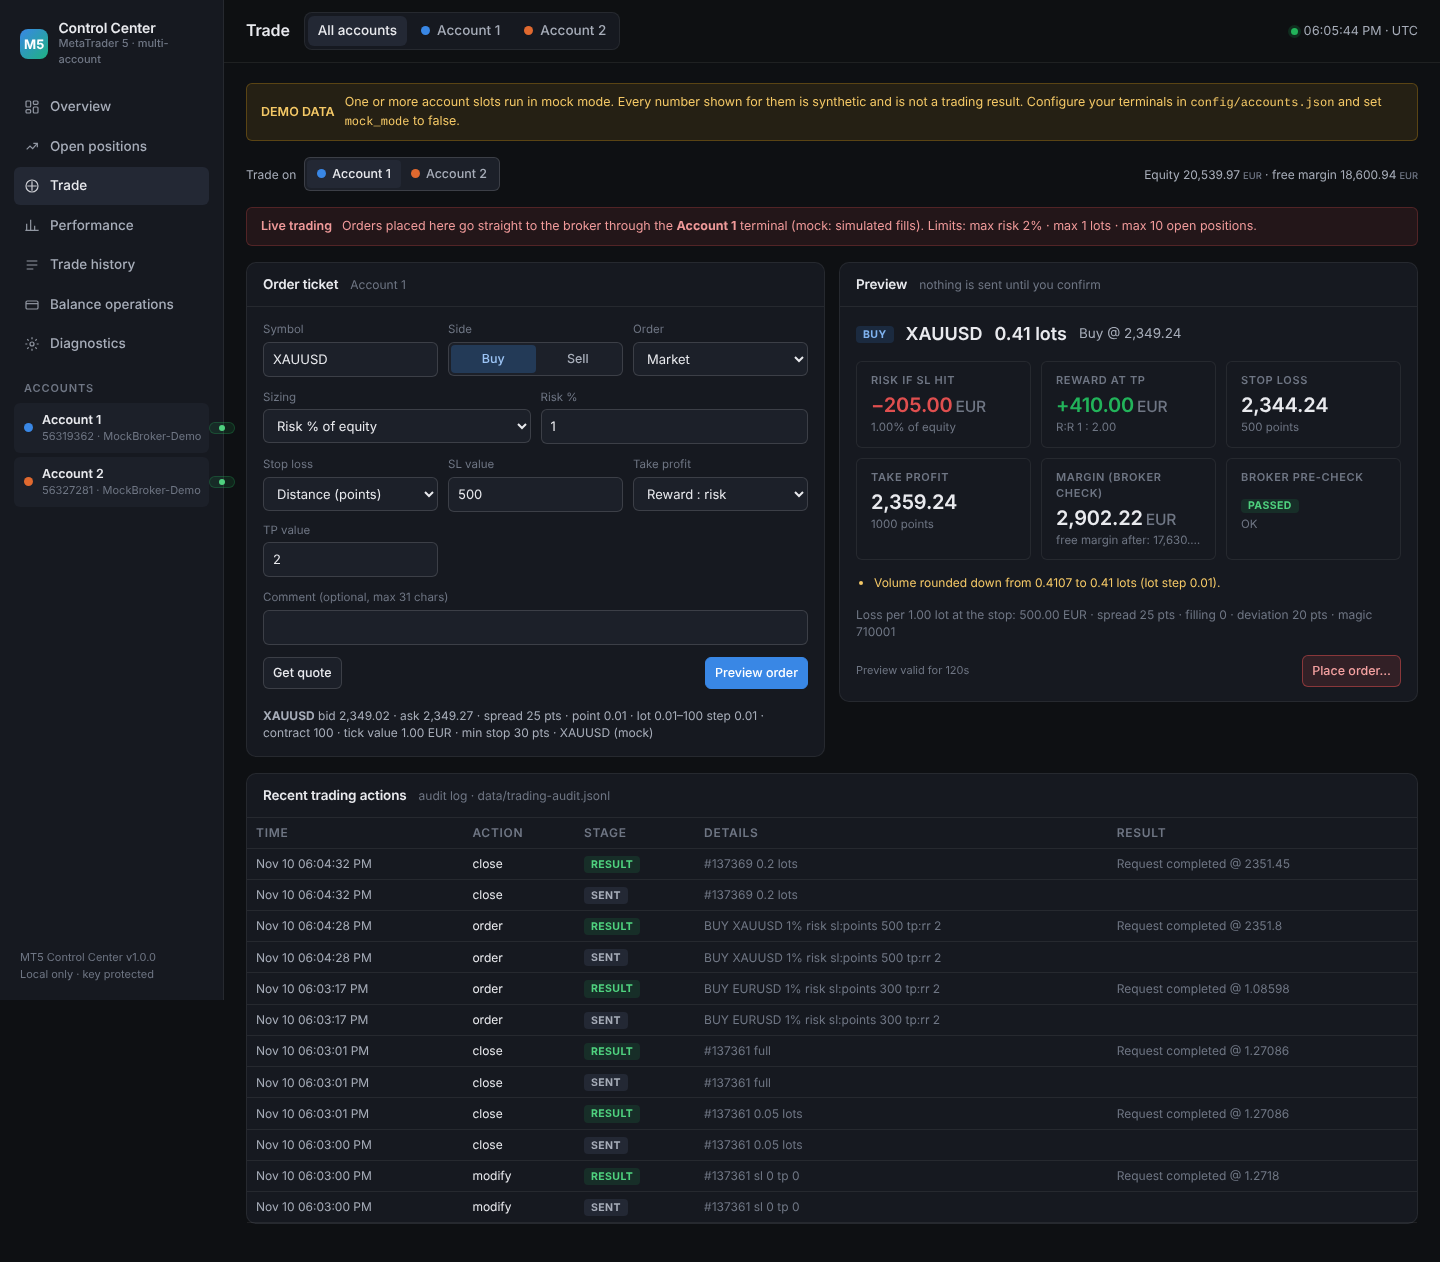
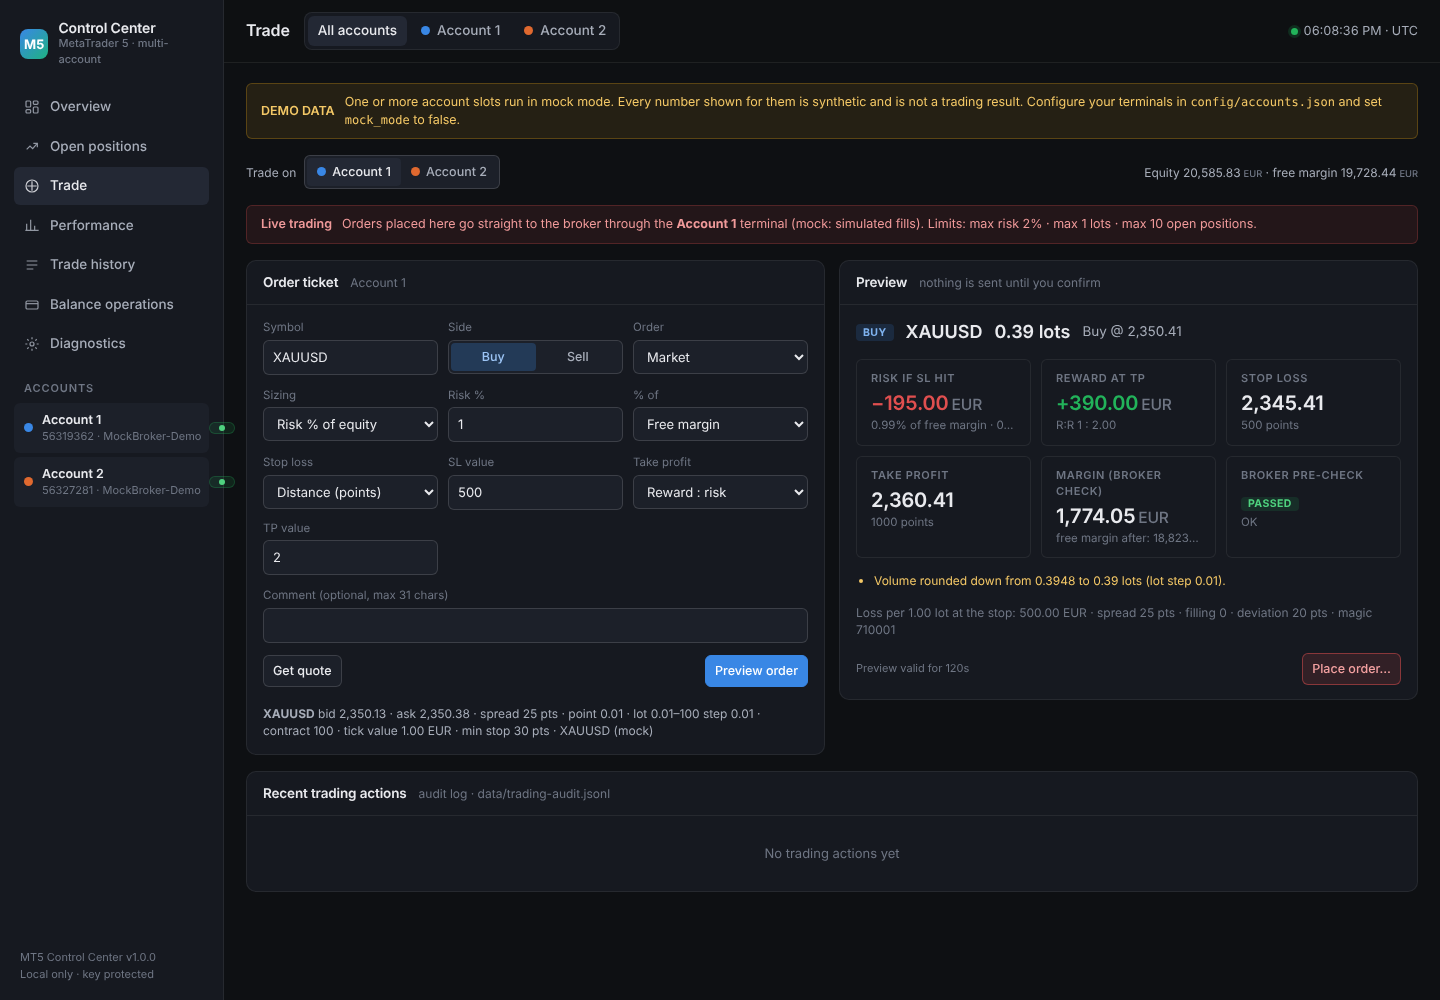
Allow risk sizing from free margin, balance or equity
Add a risk_basis choice to the order ticket (free margin is the default on
the ticket). The 1% is taken from the chosen figure; max_risk_percent is
enforced against that basis and against equity, so a free margin inflated
by credit cannot push the loss past the cap. Preview and confirmation show
both percentages.

Claude-Session: https://claude.ai/code/session_01GwyL4s49sA4J7gqj3VNecf

diff --git a/mt5-control-center/mt5cc/static/app.js b/mt5-control-center/mt5cc/static/app.js
@@ -558,7 +558,7 @@
   }
 
   /* ---------------- TRADE TICKET ---------------- */
-  const TF = { account: null, symbol: "", side: "BUY", order_kind: "market", price: "", sizing: "risk", risk_percent: "1", lots: "0.10", sl_mode: "points", sl: "", tp_mode: "rr", tp: "2", comment: "" };
+  const TF = { account: null, symbol: "", side: "BUY", order_kind: "market", price: "", sizing: "risk", risk_percent: "1", risk_basis: "free_margin", lots: "0.10", sl_mode: "points", sl: "", tp_mode: "rr", tp: "2", comment: "" };
   let lastPreview = null;
 
   async function viewTrade(content, token) {
@@ -587,6 +587,7 @@
             <div class="form-row">
               <label>Sizing<select id="t-sizing"><option value="risk" ${TF.sizing === "risk" ? "selected" : ""}>Risk % of equity</option><option value="lots" ${TF.sizing === "lots" ? "selected" : ""}>Fixed lots</option></select></label>
               <label class="${TF.sizing === "risk" ? "" : "hidden"}" id="t-risk-wrap">Risk %<input id="t-risk" type="number" step="0.05" min="0.05" max="${st.limits.max_risk_percent}" value="${esc(TF.risk_percent)}"></label>
+              <label class="${TF.sizing === "risk" ? "" : "hidden"}" id="t-basis-wrap">% of<select id="t-basis"><option value="free_margin" ${TF.risk_basis === "free_margin" ? "selected" : ""}>Free margin</option><option value="equity" ${TF.risk_basis === "equity" ? "selected" : ""}>Equity</option><option value="balance" ${TF.risk_basis === "balance" ? "selected" : ""}>Balance</option></select></label>
               <label class="${TF.sizing === "lots" ? "" : "hidden"}" id="t-lots-wrap">Lots<input id="t-lots" type="number" step="0.01" min="0.01" max="${st.limits.max_lots}" value="${esc(TF.lots)}"></label>
             </div>
             <div class="form-row">
@@ -605,13 +606,13 @@
     content.querySelectorAll("#trade-acct button").forEach(b => b.addEventListener("click", () => { TF.account = b.dataset.id; if (S.scope !== "all") { S.scope = "all"; renderShell(); } renderView(); }));
     const read = () => {
       TF.symbol = $("#t-symbol").value.trim().toUpperCase(); TF.order_kind = $("#t-kind").value; TF.price = $("#t-price").value;
-      TF.sizing = $("#t-sizing").value; TF.risk_percent = $("#t-risk").value; TF.lots = $("#t-lots").value;
+      TF.sizing = $("#t-sizing").value; TF.risk_percent = $("#t-risk").value; TF.risk_basis = $("#t-basis").value; TF.lots = $("#t-lots").value;
       TF.sl_mode = $("#t-slmode").value; TF.sl = $("#t-sl").value; TF.tp_mode = $("#t-tpmode").value; TF.tp = $("#t-tp").value; TF.comment = $("#t-comment").value;
       $("#t-price-wrap").classList.toggle("hidden", TF.order_kind === "market");
-      $("#t-risk-wrap").classList.toggle("hidden", TF.sizing !== "risk"); $("#t-lots-wrap").classList.toggle("hidden", TF.sizing !== "lots");
+      $("#t-risk-wrap").classList.toggle("hidden", TF.sizing !== "risk"); $("#t-basis-wrap").classList.toggle("hidden", TF.sizing !== "risk"); $("#t-lots-wrap").classList.toggle("hidden", TF.sizing !== "lots");
       $("#t-sl-wrap").classList.toggle("hidden", TF.sl_mode === "none"); $("#t-tp-wrap").classList.toggle("hidden", TF.tp_mode === "none");
     };
-    content.querySelectorAll("#t-symbol,#t-kind,#t-price,#t-sizing,#t-risk,#t-lots,#t-slmode,#t-sl,#t-tpmode,#t-tp,#t-comment").forEach(el => { el.addEventListener("input", read); el.addEventListener("change", read); });
+    content.querySelectorAll("#t-symbol,#t-kind,#t-price,#t-sizing,#t-risk,#t-basis,#t-lots,#t-slmode,#t-sl,#t-tpmode,#t-tp,#t-comment").forEach(el => { el.addEventListener("input", read); el.addEventListener("change", read); });
     content.querySelectorAll("#t-side button").forEach(b => b.addEventListener("click", () => { TF.side = b.dataset.v; content.querySelectorAll("#t-side button").forEach(x => x.className = x === b ? "active " + TF.side.toLowerCase() : ""); }));
     $("#t-quote").addEventListener("click", async () => {
       read(); const out = $("#t-quote-out"); out.textContent = "Fetching…";
@@ -621,13 +622,13 @@
     });
     $("#t-preview").addEventListener("click", async () => {
       read(); const out = $("#t-preview-out"); out.innerHTML = `<div class="loading-row"><div class="spinner"></div>Checking with the terminal…</div>`;
-      const body = { symbol: TF.symbol, side: TF.side, order_kind: TF.order_kind, price: TF.order_kind === "market" ? undefined : parseFloat(TF.price), sizing: TF.sizing, risk_percent: parseFloat(TF.risk_percent), lots: parseFloat(TF.lots), sl_mode: TF.sl_mode, sl: parseFloat(TF.sl), tp_mode: TF.tp_mode, tp: parseFloat(TF.tp), comment: TF.comment };
+      const body = { symbol: TF.symbol, side: TF.side, order_kind: TF.order_kind, price: TF.order_kind === "market" ? undefined : parseFloat(TF.price), sizing: TF.sizing, risk_percent: parseFloat(TF.risk_percent), risk_basis: TF.risk_basis, lots: parseFloat(TF.lots), sl_mode: TF.sl_mode, sl: parseFloat(TF.sl), tp_mode: TF.tp_mode, tp: parseFloat(TF.tp), comment: TF.comment };
       try {
         const pv = await post(`/api/accounts/${a.id}/orders/preview`, body); lastPreview = pv;
         const p = pv.plan, c = pv.check;
         out.innerHTML = `<div class="preview-head"><span class="tag ${p.direction.toLowerCase()}">${p.direction}</span><b class="big">${esc(p.symbol)}</b><span class="big">${fmt(p.volume, 2)} lots</span><span class="dim">${esc(p.order_type_name)} @ ${price(p.entry)}</span></div>
           <div class="tiles mt14">
-            <div class="tile"><div class="k">Risk if SL hit</div><div class="v neg">${p.risk_amount === null ? "uncapped" : "−" + fmt(p.risk_amount) + `<span class="cur">${esc(cur)}</span>`}</div><div class="s">${p.risk_percent === null ? "no stop loss" : fmt(p.risk_percent, 2) + "% of equity"}</div></div>
+            <div class="tile"><div class="k">Risk if SL hit</div><div class="v neg">${p.risk_amount === null ? "uncapped" : "−" + fmt(p.risk_amount) + `<span class="cur">${esc(cur)}</span>`}</div><div class="s">${p.risk_percent === null ? "no stop loss" : fmt(p.risk_percent, 2) + "% of " + ({ free_margin: "free margin", balance: "balance", equity: "equity" }[p.risk_basis] || p.risk_basis) + (p.risk_basis !== "equity" && p.risk_percent_of_equity !== null ? " · " + fmt(p.risk_percent_of_equity, 2) + "% of equity" : "")}</div></div>
             <div class="tile"><div class="k">Reward at TP</div><div class="v pos">${p.reward_amount === null ? "–" : "+" + fmt(p.reward_amount) + `<span class="cur">${esc(cur)}</span>`}</div><div class="s">${p.rr ? "R:R 1 : " + fmt(p.rr, 2) : "no take profit"}</div></div>
             <div class="tile"><div class="k">Stop loss</div><div class="v">${p.sl === null ? "none" : price(p.sl)}</div><div class="s">${p.sl === null ? "" : Math.round(Math.abs(p.entry - p.sl) / pv.symbol.point) + " points"}</div></div>
             <div class="tile"><div class="k">Take profit</div><div class="v">${p.tp === null ? "none" : price(p.tp)}</div><div class="s">${p.tp === null ? "" : Math.round(Math.abs(p.tp - p.entry) / pv.symbol.point) + " points"}</div></div>
@@ -639,7 +640,7 @@
           <div class="form-actions mt14"><span class="xs muted">Preview valid for ${pv.intent.expires_in}s</span><span class="flex1"></span><button class="btn danger" id="t-send" ${pv.check_ok ? "" : "disabled"}>Place order…</button></div>`;
         $("#t-send").addEventListener("click", () => {
           openModal({ title: `Send ${p.direction} ${fmt(p.volume, 2)} ${p.symbol} to ${a.label}?`, danger: true, confirmLabel: "Send order", requireText: p.direction,
-            body: `<dl class="kv"><dt>Account</dt><dd>${esc(a.label)}${a.mock ? " (mock)" : ""}</dd><dt>Order</dt><dd>${esc(p.order_type_name)} ${fmt(p.volume, 2)} lots ${esc(p.symbol)} @ ${price(p.entry)}</dd><dt>Stop loss</dt><dd>${p.sl === null ? "none" : price(p.sl)}</dd><dt>Take profit</dt><dd>${p.tp === null ? "none" : price(p.tp)}</dd><dt>Max loss at stop</dt><dd class="neg">${p.risk_amount === null ? "uncapped" : "−" + fmt(p.risk_amount) + " " + esc(cur) + " (" + fmt(p.risk_percent, 2) + "%)"}</dd></dl><p class="small dim">This sends a real order to the broker. Market orders fill immediately at the current price.</p>`,
+            body: `<dl class="kv"><dt>Account</dt><dd>${esc(a.label)}${a.mock ? " (mock)" : ""}</dd><dt>Order</dt><dd>${esc(p.order_type_name)} ${fmt(p.volume, 2)} lots ${esc(p.symbol)} @ ${price(p.entry)}</dd><dt>Stop loss</dt><dd>${p.sl === null ? "none" : price(p.sl)}</dd><dt>Take profit</dt><dd>${p.tp === null ? "none" : price(p.tp)}</dd><dt>Max loss at stop</dt><dd class="neg">${p.risk_amount === null ? "uncapped" : "−" + fmt(p.risk_amount) + " " + esc(cur) + " (" + fmt(p.risk_percent, 2) + "% of " + ({ free_margin: "free margin", balance: "balance", equity: "equity" }[p.risk_basis] || p.risk_basis) + ")"}</dd></dl><p class="small dim">This sends a real order to the broker. Market orders fill immediately at the current price.</p>`,
             onConfirm: async () => {
               const r = await post(`/api/accounts/${a.id}/orders`, { ...pv.request_echo, intent: pv.intent, expected: { symbol: p.symbol, order_type: p.order_type, volume: p.volume } });
               if (!r.ok) throw new Error(`${r.result_text}${r.result?.comment ? " · " + r.result.comment : ""}`);
@@ -652,7 +653,7 @@
   }
   function auditDetails(e) {
     const r = e.request || {};
-    if (e.action === "order") return `${r.side || ""} ${r.symbol || ""} ${r.sizing === "lots" ? r.lots + " lots" : (r.risk_percent || "") + "% risk"} sl:${r.sl_mode || "none"} ${r.sl || ""} tp:${r.tp_mode || "none"} ${r.tp || ""}`.replace(/\s+/g, " ").trim();
+    if (e.action === "order") return `${r.side || ""} ${r.symbol || ""} ${r.sizing === "lots" ? r.lots + " lots" : (r.risk_percent || "") + "% of " + (r.risk_basis || "equity").replace("_", " ")} sl:${r.sl_mode || "none"} ${r.sl || ""} tp:${r.tp_mode || "none"} ${r.tp || ""}`.replace(/\s+/g, " ").trim();
     if (e.action === "close") return `#${r.ticket} ${r.volume ? r.volume + " lots" : "full"}`;
     if (e.action === "modify") return `#${r.ticket} sl ${r.sl ?? "-"} tp ${r.tp ?? "-"}`;
     return "";

diff --git a/mt5-control-center/mt5cc/trading.py b/mt5-control-center/mt5cc/trading.py
@@ -80,6 +80,9 @@ class OrderPlan:
     risk_percent: float | None
     reward_amount: float | None
     sizing: str
+    risk_basis: str = "equity"
+    basis_amount: float | None = None
+    risk_percent_of_equity: float | None = None
     warnings: list[str] = field(default_factory=list)
     loss_per_lot: float | None = None
     requested_lots: float | None = None
@@ -94,7 +97,10 @@ class OrderPlan:
             "risk_percent": round(self.risk_percent, 3) if self.risk_percent is not None else None,
             "reward_amount": round(self.reward_amount, 2) if self.reward_amount is not None else None,
             "rr": round(self.reward_amount / self.risk_amount, 2) if self.reward_amount and self.risk_amount else None,
-            "sizing": self.sizing, "warnings": self.warnings,
+            "sizing": self.sizing, "risk_basis": self.risk_basis,
+            "basis_amount": round(self.basis_amount, 2) if self.basis_amount is not None else None,
+            "risk_percent_of_equity": round(self.risk_percent_of_equity, 3) if self.risk_percent_of_equity is not None else None,
+            "warnings": self.warnings,
             "loss_per_lot": round(self.loss_per_lot, 2) if self.loss_per_lot is not None else None,
             "requested_lots": self.requested_lots,
         }
@@ -105,7 +111,8 @@ def build_plan(req: dict[str, Any], info: dict[str, Any], tick: dict[str, Any], 
     """Turn a user request into a concrete, validated order plan.
 
     ``req`` keys: symbol, side ("BUY"/"SELL"), order_kind ("market"/"limit"/"stop"),
-    price (pending only), sizing ("risk"/"lots"), risk_percent, lots,
+    price (pending only), sizing ("risk"/"lots"), risk_percent,
+    risk_basis ("equity"/"balance"/"free_margin" - what the percentage is taken from), lots,
     sl_mode ("points"/"price"/"none"), sl, tp_mode ("points"/"price"/"rr"/"none"), tp.
     """
     symbol = str(req.get("symbol") or "").strip().upper()
@@ -179,6 +186,15 @@ def build_plan(req: dict[str, Any], info: dict[str, Any], tick: dict[str, Any], 
     # --- sizing
     sizing = str(req.get("sizing") or "risk").lower()
     equity = float(account.get("equity") or 0)
+    risk_basis = str(req.get("risk_basis") or "equity").lower()
+    basis_amount = {
+        "equity": equity,
+        "balance": float(account.get("balance") or 0),
+        "free_margin": float(account.get("margin_free") or 0),
+    }.get(risk_basis)
+    if basis_amount is None:
+        raise TradeRejected("risk_basis must be equity, balance or free_margin.")
+    basis_label = {"equity": "equity", "balance": "balance", "free_margin": "free margin"}[risk_basis]
     max_risk = float(limits.get("max_risk_percent") or 0)
     max_lots = float(limits.get("max_lots") or 0)
     lpl = loss_per_lot(abs(entry - sl), info) if sl is not None else None
@@ -192,9 +208,9 @@ def build_plan(req: dict[str, Any], info: dict[str, Any], tick: dict[str, Any], 
             raise TradeRejected("Risk percent must be positive.")
         if max_risk and risk_pct > max_risk + 1e-9:
             raise TradeRejected(f"Risk {risk_pct:g}% exceeds this account's max_risk_percent ({max_risk:g}%).")
-        if equity <= 0:
-            raise TradeRejected("Account equity is not positive; refusing to size a trade.")
-        risk_amount = equity * risk_pct / 100.0
+        if basis_amount <= 0:
+            raise TradeRejected(f"Account {basis_label} is not positive; refusing to size a trade.")
+        risk_amount = basis_amount * risk_pct / 100.0
         raw = risk_amount / lpl
         volume = round_volume(raw, info)
         if volume <= 0:
@@ -218,9 +234,12 @@ def build_plan(req: dict[str, Any], info: dict[str, Any], tick: dict[str, Any], 
         raise TradeRejected(f"Volume {volume:g} exceeds this account's max_lots ({max_lots:g}).")
 
     risk_amount = lpl * volume if lpl is not None else None
-    risk_percent = (risk_amount / equity * 100.0) if (risk_amount is not None and equity > 0) else None
+    risk_percent = (risk_amount / basis_amount * 100.0) if (risk_amount is not None and basis_amount > 0) else None
+    risk_percent_of_equity = (risk_amount / equity * 100.0) if (risk_amount is not None and equity > 0) else None
     if risk_percent is not None and max_risk and risk_percent > max_risk + 1e-6:
-        raise TradeRejected(f"Resulting risk {risk_percent:.2f}% exceeds max_risk_percent ({max_risk:g}%).")
+        raise TradeRejected(f"Resulting risk {risk_percent:.2f}% of {basis_label} exceeds max_risk_percent ({max_risk:g}%).")
+    if risk_basis != "equity" and risk_percent_of_equity is not None and max_risk and risk_percent_of_equity > max_risk + 1e-6:
+        raise TradeRejected(f"Resulting risk is {risk_percent_of_equity:.2f}% of equity, above max_risk_percent ({max_risk:g}%). The cap applies to equity as well as to the chosen basis.")
     if sl is None:
         warnings.append("No stop-loss: the risk of this trade is not capped.")
 
@@ -253,6 +272,7 @@ def build_plan(req: dict[str, Any], info: dict[str, Any], tick: dict[str, Any], 
 
     return OrderPlan(symbol=symbol, order_type=order_type, volume=volume, entry=round_price(entry, info), sl=sl, tp=tp,
                      risk_amount=risk_amount, risk_percent=risk_percent, reward_amount=reward, sizing=sizing,
+                     risk_basis=risk_basis, basis_amount=basis_amount, risk_percent_of_equity=risk_percent_of_equity,
                      warnings=warnings, loss_per_lot=lpl, requested_lots=requested_lots)
 
 

diff --git a/mt5-control-center/tests/test_trading.py b/mt5-control-center/tests/test_trading.py
@@ -97,3 +97,24 @@ def test_modify_request_validates_sides():
     assert req == {"action": C.TRADE_ACTION_SLTP, "symbol": "EURUSD", "position": 55, "sl": 1.105, "tp": 1.09}
     with pytest.raises(T.TradeRejected):
         T.build_modify_request(pos, INFO, 1.09, None)
+
+
+def test_risk_from_free_margin():
+    acc = {"equity": 10000.0, "balance": 10500.0, "margin_free": 4000.0}
+    req = {"symbol": "EURUSD", "side": "BUY", "sizing": "risk", "risk_percent": 1, "risk_basis": "free_margin", "sl_mode": "points", "sl": 200}
+    plan = T.build_plan(req, INFO, TICK, acc, LIMITS)
+    # 1% of free margin 4,000 = 40; 200/lot -> 0.2 lots
+    assert plan.volume == pytest.approx(0.2) and plan.risk_amount == pytest.approx(40.0)
+    assert plan.risk_basis == "free_margin" and plan.basis_amount == 4000.0
+    assert plan.risk_percent == pytest.approx(1.0) and plan.risk_percent_of_equity == pytest.approx(0.4)
+    bal = T.build_plan({**req, "risk_basis": "balance"}, INFO, TICK, acc, LIMITS)
+    assert bal.volume == pytest.approx(0.52)
+    with pytest.raises(T.TradeRejected, match="risk_basis"):
+        T.build_plan({**req, "risk_basis": "margin"}, INFO, TICK, acc, LIMITS)
+
+
+def test_free_margin_basis_still_capped_by_equity():
+    # free margin larger than equity (credit / bonus) must not let risk exceed the cap on equity
+    acc = {"equity": 1000.0, "balance": 1000.0, "margin_free": 5000.0}
+    with pytest.raises(T.TradeRejected, match="of equity"):
+        T.build_plan({"symbol": "EURUSD", "side": "BUY", "sizing": "risk", "risk_percent": 2, "risk_basis": "free_margin", "sl_mode": "points", "sl": 100}, INFO, TICK, acc, LIMITS)

diff --git a/mt5-control-center/mt5cc/worker.py b/mt5-control-center/mt5cc/worker.py
@@ -295,7 +295,7 @@ class _Worker:
         rc = check.get("retcode")
         return {"plan": plan.to_dict(), "request": request, "check": check,
                 "check_ok": rc in C.TRADE_RETCODE_OK, "check_text": T.retcode_name(rc),
-                "account": {"equity": account.get("equity"), "margin_free": account.get("margin_free"), "currency": account.get("currency")},
+                "account": {"equity": account.get("equity"), "balance": account.get("balance"), "margin_free": account.get("margin_free"), "currency": account.get("currency")},
                 "symbol": {k: info.get(k) for k in ("digits", "point", "volume_min", "volume_max", "volume_step", "trade_stops_level",
                                                     "trade_contract_size", "trade_tick_value", "trade_tick_size", "spread", "currency_profit")}}
 

diff --git a/mt5-control-center/mt5cc/server.py b/mt5-control-center/mt5cc/server.py
@@ -100,7 +100,7 @@ class AuditLog:
 
 
 INTENT_TTL_S = 120
-ORDER_FIELDS = ("symbol", "side", "order_kind", "price", "sizing", "risk_percent", "lots", "sl_mode", "sl", "tp_mode", "tp", "comment")
+ORDER_FIELDS = ("symbol", "side", "order_kind", "price", "sizing", "risk_percent", "risk_basis", "lots", "sl_mode", "sl", "tp_mode", "tp", "comment")
 
 
 def _order_request(body: dict[str, Any]) -> dict[str, Any]:

diff --git a/mt5-control-center/README.md b/mt5-control-center/README.md
@@ -257,10 +257,14 @@ account, whether trading is possible and if not, why.
 
 1. Pick the account, type the symbol, choose Buy/Sell and Market / Limit / Stop.
 2. Choose sizing:
-   * **Risk % of equity** - e.g. `1` means *"lose at most 1% of equity if the
-     stop is hit"*. The volume is calculated from the stop distance and the
-     symbol's tick value, then **rounded down** to the lot step so the real risk
-     is never above what you asked. This mode requires a stop-loss.
+   * **Risk %** of **free margin**, **equity** or **balance** (your choice in
+     the "% of" box) - e.g. `1` of free margin means *"lose at most 1% of the
+     current free margin if the stop is hit"*. The volume is calculated from
+     the stop distance and the symbol's tick value, then **rounded down** to
+     the lot step so the real risk is never above what you asked. This mode
+     requires a stop-loss. `max_risk_percent` is enforced against the chosen
+     basis *and* against equity, so a large free margin from credit or bonus
+     cannot push the loss past the cap.
    * **Fixed lots** - you type the volume.
 3. Stop-loss as a distance in points or a price; take-profit as reward:risk
    (e.g. `2`), points, or price.
